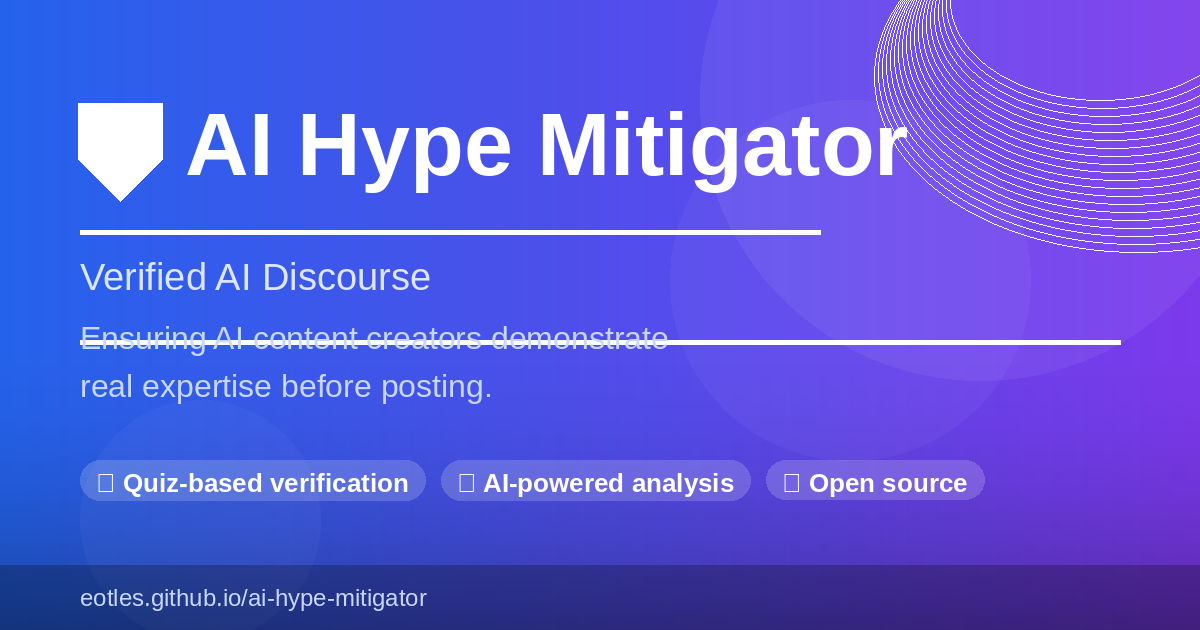
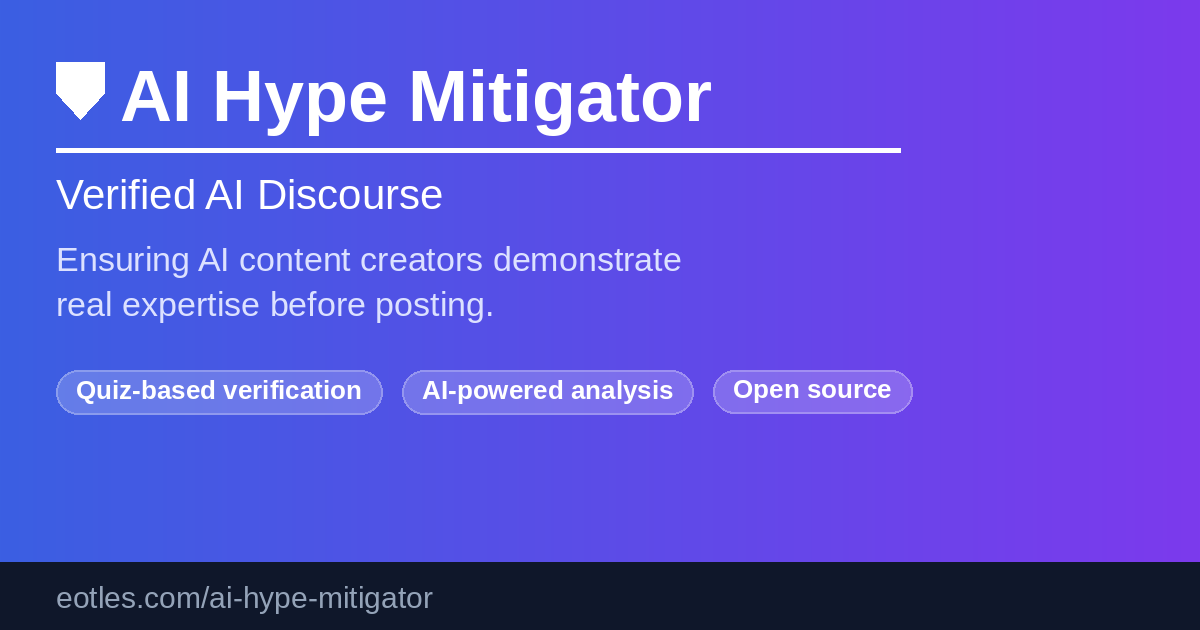
Fix share cards: remove strikethrough/bubbles, update URL to eotles.com
- Regenerate social-card.png without the strikethrough decoration through
  the description text and without the decorative bubble elements
- Update URL in card image from eotles.github.io to eotles.com/ai-hype-mitigator
- Update all og: and twitter: meta tags to use eotles.com canonical URL
- Add generate_social_card.py script for future card regeneration

https://claude.ai/code/session_01YSsEf8apwvJBkFBcdnjXj1

diff --git a/docs/index.html b/docs/index.html
@@ -8,10 +8,10 @@
 
   <!-- Open Graph / Facebook / LinkedIn -->
   <meta property="og:type" content="website">
-  <meta property="og:url" content="https://eotles.github.io/ai-hype-mitigator/">
+  <meta property="og:url" content="https://eotles.com/ai-hype-mitigator/">
   <meta property="og:title" content="AI Hype Mitigator — Verified AI Discourse">
   <meta property="og:description" content="Ensuring AI content creators demonstrate real expertise before posting. Quiz-based verification powered by AI analysis.">
-  <meta property="og:image" content="https://eotles.github.io/ai-hype-mitigator/social-card.png">
+  <meta property="og:image" content="https://eotles.com/ai-hype-mitigator/social-card.png">
   <meta property="og:image:width" content="1200">
   <meta property="og:image:height" content="630">
   <meta property="og:image:alt" content="AI Hype Mitigator — Verified AI Discourse">
@@ -19,24 +19,24 @@
 
   <!-- Twitter / X Card -->
   <meta name="twitter:card" content="summary_large_image">
-  <meta name="twitter:url" content="https://eotles.github.io/ai-hype-mitigator/">
+  <meta name="twitter:url" content="https://eotles.com/ai-hype-mitigator/">
   <meta name="twitter:title" content="AI Hype Mitigator — Verified AI Discourse">
   <meta name="twitter:description" content="Ensuring AI content creators demonstrate real expertise before posting. Quiz-based verification powered by AI analysis.">
-  <meta name="twitter:image" content="https://eotles.github.io/ai-hype-mitigator/social-card.png">
+  <meta name="twitter:image" content="https://eotles.com/ai-hype-mitigator/social-card.png">
   <meta name="twitter:image:alt" content="AI Hype Mitigator — Verified AI Discourse">
 
   <!-- iOS / Apple -->
   <meta name="apple-mobile-web-app-title" content="AI Hype Mitigator">
   <meta name="apple-mobile-web-app-capable" content="yes">
   <meta name="apple-mobile-web-app-status-bar-style" content="black-translucent">
-  <link rel="apple-touch-icon" sizes="180x180" href="https://eotles.github.io/ai-hype-mitigator/apple-touch-icon.png">
-  <link rel="icon" type="image/png" sizes="512x512" href="https://eotles.github.io/ai-hype-mitigator/icon-512.png">
+  <link rel="apple-touch-icon" sizes="180x180" href="apple-touch-icon.png">
+  <link rel="icon" type="image/png" sizes="512x512" href="icon-512.png">
 
   <!-- Theme color (browser chrome) -->
   <meta name="theme-color" content="#2563eb">
 
   <!-- Canonical URL -->
-  <link rel="canonical" href="https://eotles.github.io/ai-hype-mitigator/">
+  <link rel="canonical" href="https://eotles.com/ai-hype-mitigator/">
 
   <script>if (location.protocol === 'http:') location.replace('https:' + location.href.slice(5));</script>
   <style>

diff --git a/generate_social_card.py b/generate_social_card.py
@@ -1,0 +1,135 @@
+#!/usr/bin/env python3
+"""Generate social-card.png for AI Hype Mitigator."""
+
+from PIL import Image, ImageDraw, ImageFont
+import math
+
+WIDTH, HEIGHT = 1200, 630
+
+FONT_SANS_BOLD = "/usr/share/fonts/truetype/liberation/LiberationSans-Bold.ttf"
+FONT_SANS = "/usr/share/fonts/truetype/liberation/LiberationSans-Regular.ttf"
+
+
+def make_gradient(width, height):
+    """Blue-to-purple left-to-right gradient background."""
+    img = Image.new("RGB", (width, height))
+    draw = ImageDraw.Draw(img)
+    # From #3b5fe2 (blue) on the left to #7c3aed (purple) on the right
+    r1, g1, b1 = 0x3b, 0x5f, 0xe2
+    r2, g2, b2 = 0x7c, 0x3a, 0xed
+    for x in range(width):
+        t = x / (width - 1)
+        r = int(r1 + (r2 - r1) * t)
+        g = int(g1 + (g2 - g1) * t)
+        b = int(b1 + (b2 - b1) * t)
+        draw.line([(x, 0), (x, height)], fill=(r, g, b))
+    return img
+
+
+def draw_shield(draw, cx, cy, size, color=(255, 255, 255)):
+    """Draw a simple shield shape centered at (cx, cy)."""
+    w = size
+    h = int(size * 1.2)
+    x0 = cx - w // 2
+    y0 = cy - h // 2
+
+    # Shield polygon: flat top with rounded sides, pointed bottom
+    pts = [
+        (x0, y0),                          # top-left
+        (x0 + w, y0),                       # top-right
+        (x0 + w, y0 + int(h * 0.55)),       # right-mid
+        (cx, y0 + h),                        # bottom point
+        (x0, y0 + int(h * 0.55)),           # left-mid
+    ]
+    draw.polygon(pts, fill=color)
+
+
+def main():
+    img = make_gradient(WIDTH, HEIGHT)
+    draw = ImageDraw.Draw(img)
+
+    WHITE = (255, 255, 255)
+    WHITE_70 = (255, 255, 255, 178)
+    DARK_BAND = (15, 23, 42)           # near-black bottom bar
+    BADGE_BG = (255, 255, 255, 38)     # semi-transparent white
+
+    # ── Shield icon ──────────────────────────────────────────────────────────
+    shield_x, shield_y = 80, 90
+    draw_shield(draw, shield_x, shield_y, 48, WHITE)
+
+    # ── Title ─────────────────────────────────────────────────────────────────
+    font_title = ImageFont.truetype(FONT_SANS_BOLD, 72)
+    draw.text((120, 55), "AI Hype Mitigator", font=font_title, fill=WHITE)
+
+    # ── Divider line ──────────────────────────────────────────────────────────
+    draw.rectangle([56, 148, 900, 152], fill=WHITE)
+
+    # ── Subtitle ──────────────────────────────────────────────────────────────
+    font_sub = ImageFont.truetype(FONT_SANS, 42)
+    draw.text((56, 170), "Verified AI Discourse", font=font_sub, fill=WHITE)
+
+    # ── Body text (NO strikethrough) ──────────────────────────────────────────
+    font_body = ImageFont.truetype(FONT_SANS, 34)
+    WHITE_MUTED = (220, 225, 255)
+    draw.text((56, 240), "Ensuring AI content creators demonstrate", font=font_body, fill=WHITE_MUTED)
+    draw.text((56, 285), "real expertise before posting.", font=font_body, fill=WHITE_MUTED)
+
+    # ── Badges ────────────────────────────────────────────────────────────────
+    font_badge = ImageFont.truetype(FONT_SANS_BOLD, 26)
+    badges = ["Quiz-based verification", "AI-powered analysis", "Open source"]
+    badge_y = 370
+    pad_x, pad_y = 20, 10
+    radius = 22
+    x_cursor = 56
+
+    # Use RGBA layer for semi-transparent badges
+    overlay = Image.new("RGBA", (WIDTH, HEIGHT), (0, 0, 0, 0))
+    odraw = ImageDraw.Draw(overlay)
+
+    for label in badges:
+        bbox = font_badge.getbbox(label)
+        tw = bbox[2] - bbox[0]
+        th = bbox[3] - bbox[1]
+        bw = tw + pad_x * 2
+        bh = th + pad_y * 2
+        # Rounded rect
+        odraw.rounded_rectangle(
+            [x_cursor, badge_y, x_cursor + bw, badge_y + bh],
+            radius=radius,
+            fill=(255, 255, 255, 50),
+            outline=(255, 255, 255, 100),
+            width=2,
+        )
+        x_cursor += bw + 20
+
+    img = img.convert("RGBA")
+    img = Image.alpha_composite(img, overlay)
+    img = img.convert("RGB")
+    draw = ImageDraw.Draw(img)
+
+    # Re-draw badge text on top
+    x_cursor = 56
+    for label in badges:
+        bbox = font_badge.getbbox(label)
+        tw = bbox[2] - bbox[0]
+        th = bbox[3] - bbox[1]
+        bw = tw + pad_x * 2
+        bh = th + pad_y * 2
+        text_x = x_cursor + pad_x - bbox[0]
+        text_y = badge_y + pad_y - bbox[1]
+        draw.text((text_x, text_y), label, font=font_badge, fill=WHITE)
+        x_cursor += bw + 20
+
+    # ── Bottom bar with URL ───────────────────────────────────────────────────
+    bar_h = 68
+    draw.rectangle([0, HEIGHT - bar_h, WIDTH, HEIGHT], fill=DARK_BAND)
+    font_url = ImageFont.truetype(FONT_SANS, 30)
+    draw.text((56, HEIGHT - bar_h + 18), "eotles.com/ai-hype-mitigator", font=font_url, fill=(148, 163, 184))
+
+    out_path = "docs/social-card.png"
+    img.save(out_path, "PNG", optimize=True)
+    print(f"Saved {out_path} ({img.size[0]}x{img.size[1]})")
+
+
+if __name__ == "__main__":
+    main()
